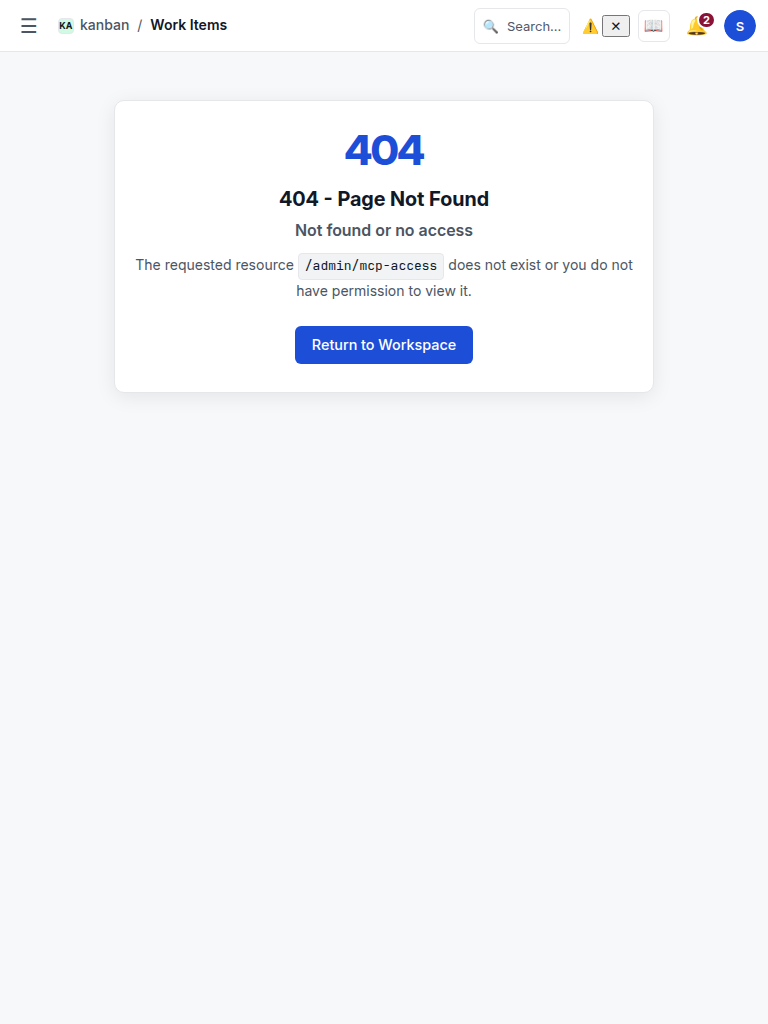
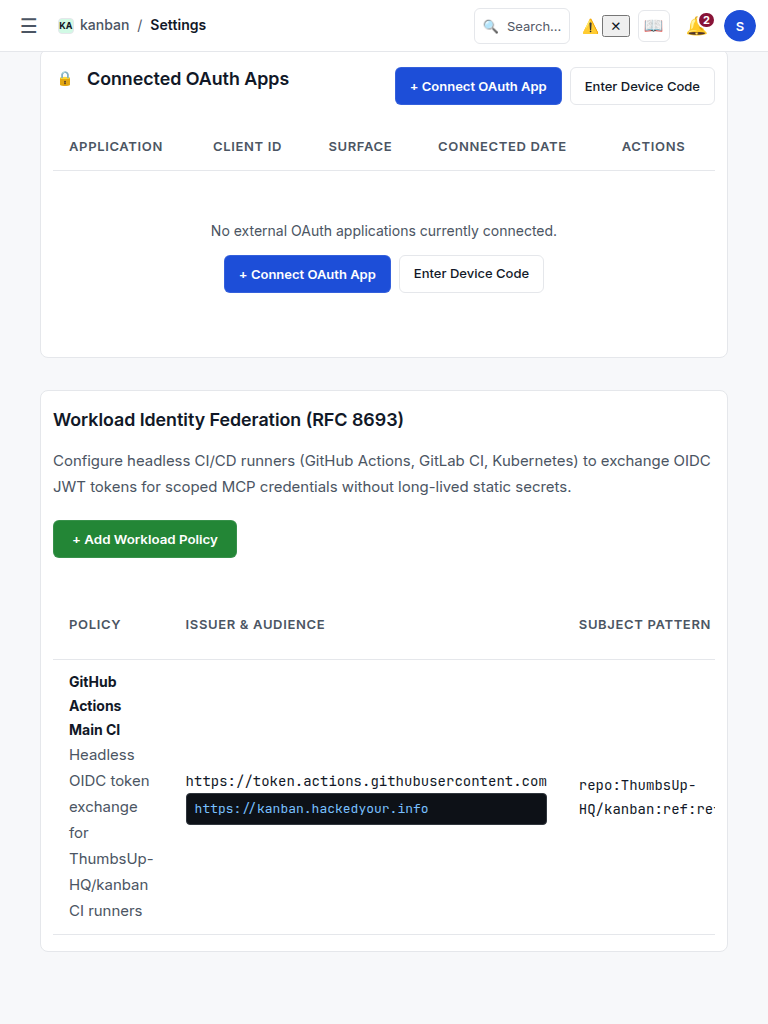
fix(web): mount WorkloadFederationSection in McpAccessStudio and re-capture KAN-74 /settings/mcp Playwright screenshots

diff --git a/kanban/web/src/features/settings/McpAccessStudio.tsx b/kanban/web/src/features/settings/McpAccessStudio.tsx
@@ -19,6 +19,7 @@ import {
 } from './settingsApi';
 import { McpConfigSnippetModal } from './McpConfigSnippetModal';
 import { ConnectOAuthAppModal } from './ConnectOAuthAppModal';
+import { WorkloadFederationSection } from './McpUnifiedStudio';
 import { SecondFactorStep } from '../auth/SecondFactorStep';
 import type { MfaMethod } from '../auth/authApi';
 import { ApiProblem } from '../../api/problem';
@@ -1158,6 +1159,9 @@ export function McpAccessStudio({
           </div>
         </section>
       )}
+
+      {/* Workload Identity Federation (RFC 8693) */}
+      <WorkloadFederationSection isAdmin={isWorkspaceAdmin} />
 
       {/* Mint Key Modal */}
       {showMintModal && (

diff --git a/kanban/web/src/features/settings/McpUnifiedStudio.tsx b/kanban/web/src/features/settings/McpUnifiedStudio.tsx
@@ -110,8 +110,8 @@ export function WorkloadFederationSection({
       const data = (await apiFetch(
         'GET',
         '/api/v1/admin/workload-identities' as unknown as keyof import('../../api/schema.gen.ts').paths,
-      )) as WorkloadIdentityPolicyItem[];
-      setPolicies(data);
+      )) as WorkloadIdentityPolicyItem[] | undefined;
+      setPolicies(Array.isArray(data) ? data : []);
     } catch (err) {
       const challenge = extractAal2Challenge(err);
       if (challenge) {
